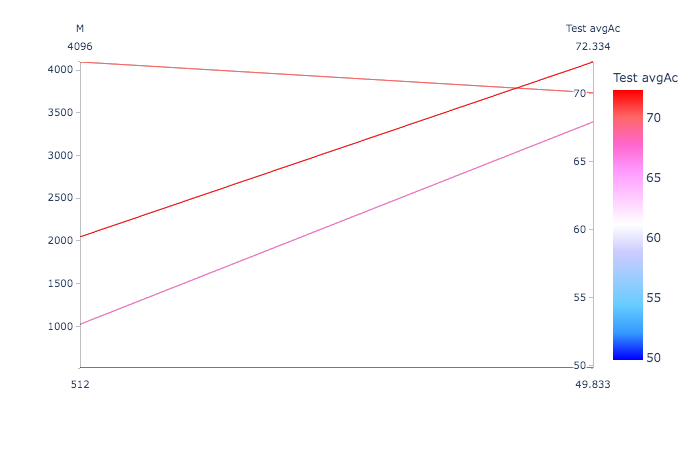
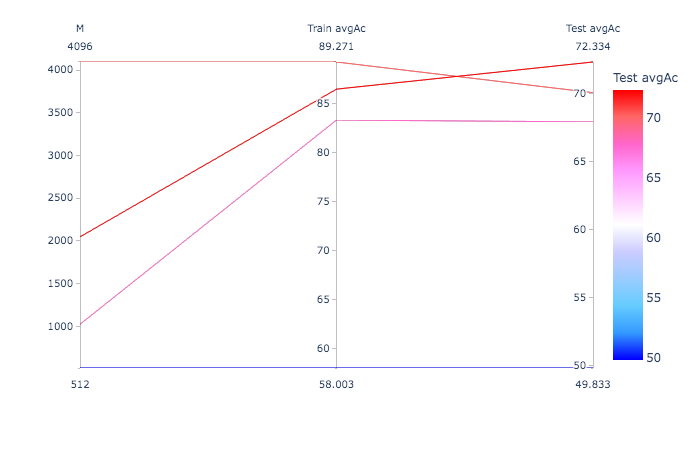
include train avg accuracy in nb and mm tests

diff --git a/exerc01/summary-parallel.py b/exerc01/summary-parallel.py
@@ -11,9 +11,10 @@ def do_plot(csv_filename):
 
     # ad hoc for other tests:
     elif csv_filename == 'nb-summary.csv':
-        selection = summary[['M', 'Test avgAc']]
+        selection = summary[['M', 'Train avgAc', 'Test avgAc']]
+
     elif csv_filename == 'mm-summary.csv':
-        selection = summary[['M', 'Test avgAc']]
+        selection = summary[['M', 'Train avgAc', 'Test avgAc']]
 
     else:
         print('unrecognized file: {}'.format(csv_filename))
